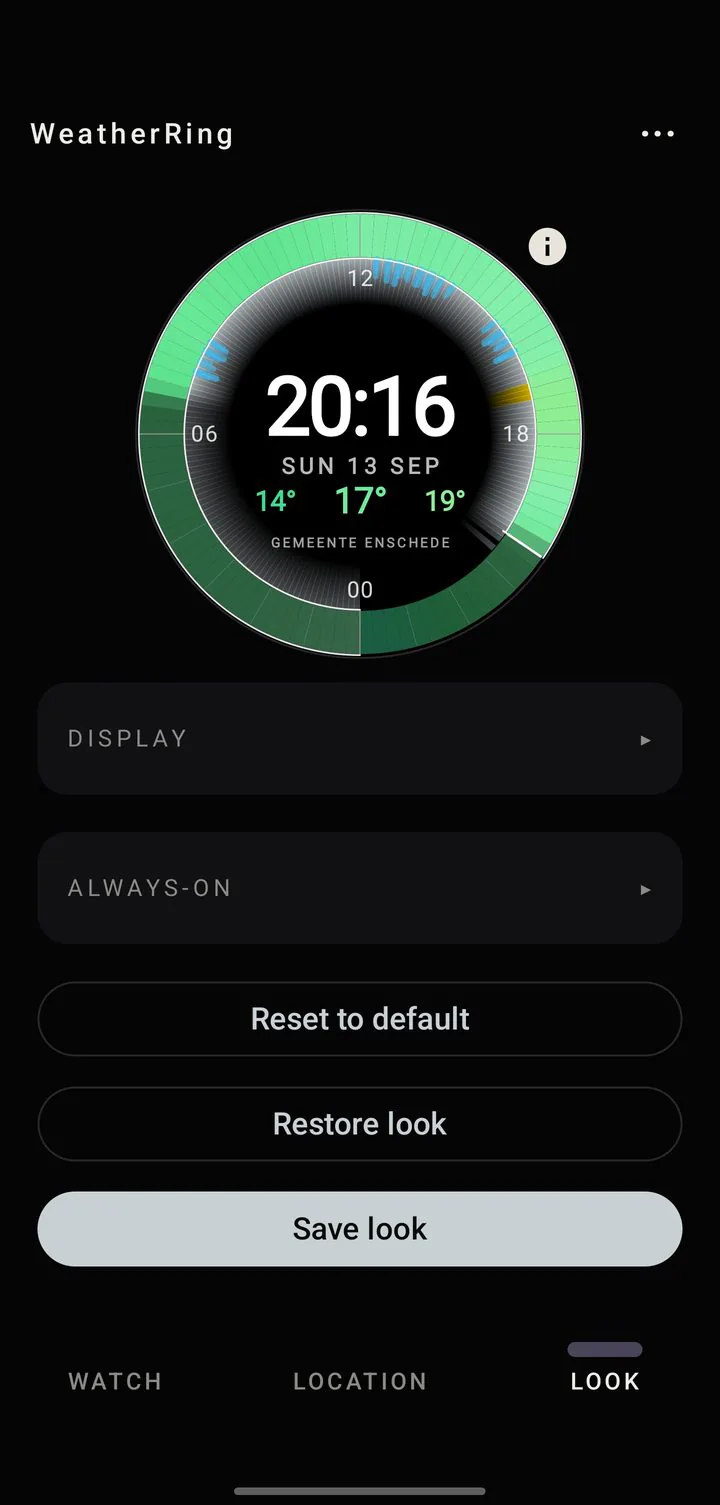
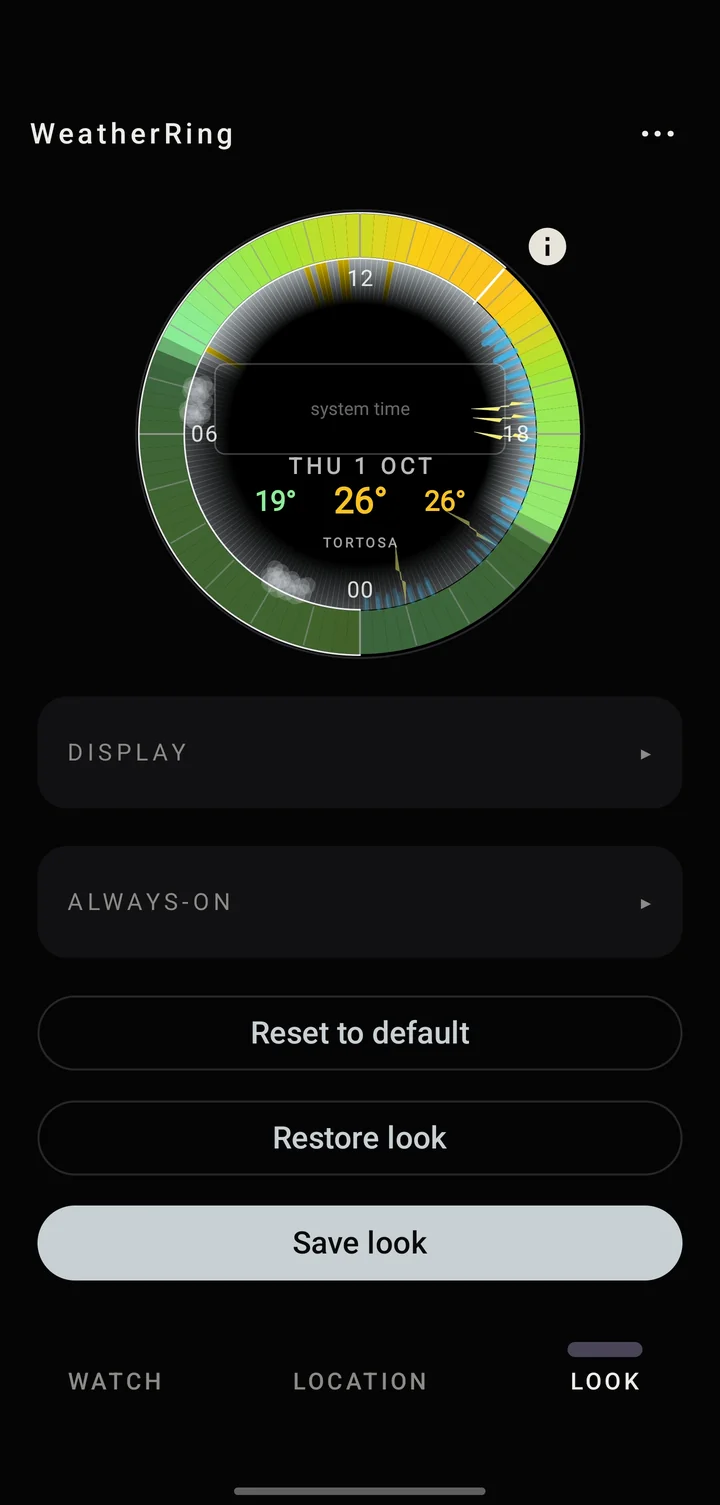
Update Look screenshots to latest app version (#10)
* Update Look screenshots to latest app version

Replace the four Look-tab phone screenshots with captures from the
current production app: Display section list, Ring section, top-level
Look with Display / Always-on and Save look, and the full expanded
settings scroll. Same 720px width, status bar cropped like before,
WebP + progressive JPEG, metadata stripped. Note the Display grouping
in the first figure's caption and alt text, and update the full-scroll
image height.

* Strip EXIF/ICC metadata from location and watch JPEGs

Lossless: removes the APP1 (Exif, incl. Android build string) and APP2
(sRGB ICC) segments only; compressed image data is byte-identical and
decoded pixels are unchanged. The matching WebPs carry no metadata.

diff --git a/index.html b/index.html
@@ -179,7 +179,7 @@
         <h2 class="mt-4 max-w-2xl font-display text-3xl text-fg sm:text-4xl">Customize the face and Always-On Display</h2>
         <p class="mt-4 max-w-2xl text-muted">Your phone and watch use the exact same preview rendering. Adjust marks, colors, temperature ring, sky, rain, and always-on settings—then save or reset from your phone.</p>
         <div class="mt-12 grid gap-6 md:grid-cols-3">
-          <figure><div class="phone-frame"><picture><source type="image/webp" srcset="images/phone-look-home.webp"><img src="images/phone-look-home.jpg" alt="WeatherRing Look tab: Marks & colors, Ring, Center, Strokes" width="720" height="1505" loading="lazy" decoding="async"></picture></div><figcaption class="mt-3 text-sm text-muted">Look home</figcaption></figure>
+          <figure><div class="phone-frame"><picture><source type="image/webp" srcset="images/phone-look-home.webp"><img src="images/phone-look-home.jpg" alt="WeatherRing Look tab, Display section: Marks & colors, Ring, Center, Strokes" width="720" height="1505" loading="lazy" decoding="async"></picture></div><figcaption class="mt-3 text-sm text-muted">Display</figcaption></figure>
           <figure><div class="phone-frame"><picture><source type="image/webp" srcset="images/phone-look-ring.webp"><img src="images/phone-look-ring.jpg" alt="WeatherRing Look tab: ring size and thickness sliders" width="720" height="1505" loading="lazy" decoding="async"></picture></div><figcaption class="mt-3 text-sm text-muted">Ring size</figcaption></figure>
           <figure><div class="phone-frame"><picture><source type="image/webp" srcset="images/phone-look-save.webp"><img src="images/phone-look-save.jpg" alt="WeatherRing Look tab: Display, Always-on, Save look" width="720" height="1505" loading="lazy" decoding="async"></picture></div><figcaption class="mt-3 text-sm text-muted">Save look</figcaption></figure>
         </div>
@@ -198,7 +198,7 @@
             <div class="phone-frame max-h-[36rem] overflow-y-auto">
               <picture>
                 <source type="image/webp" srcset="images/phone-look-full.webp">
-                <img src="images/phone-look-full.jpg" alt="WeatherRing Look tab with the full list of controls, including Always-on toggles" width="720" height="8074" loading="lazy" decoding="async">
+                <img src="images/phone-look-full.jpg" alt="WeatherRing Look tab with the full list of controls, including Always-on toggles" width="720" height="11094" loading="lazy" decoding="async">
               </picture>
             </div>
             <figcaption class="mt-3 text-sm text-muted">Full Look — every control, including always-on.</figcaption>
